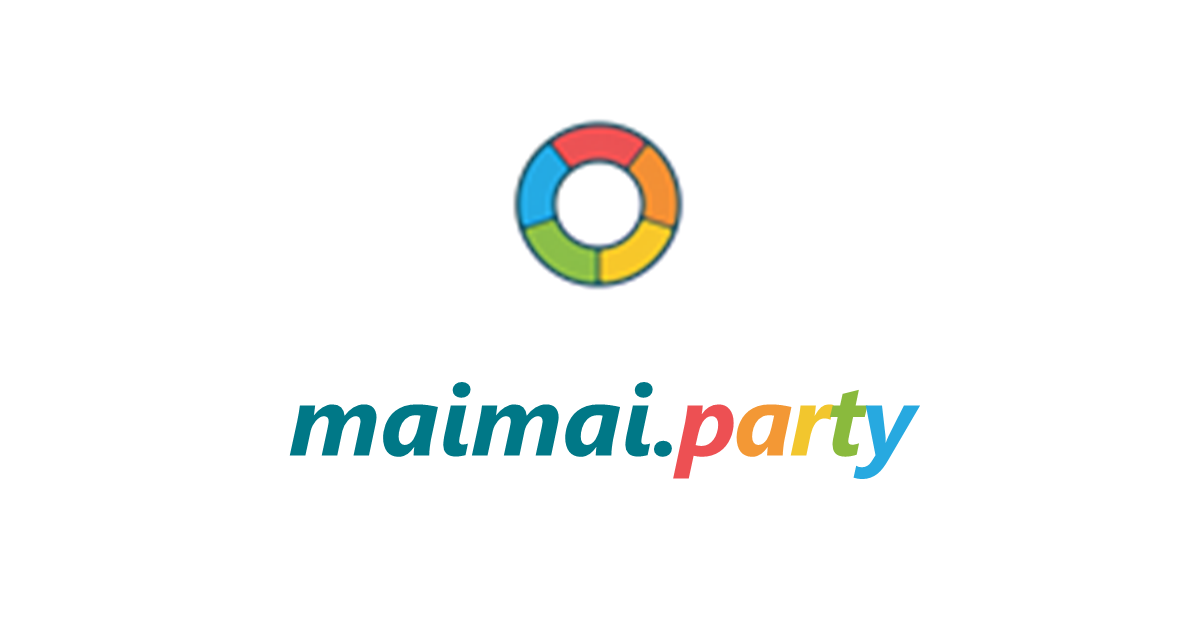
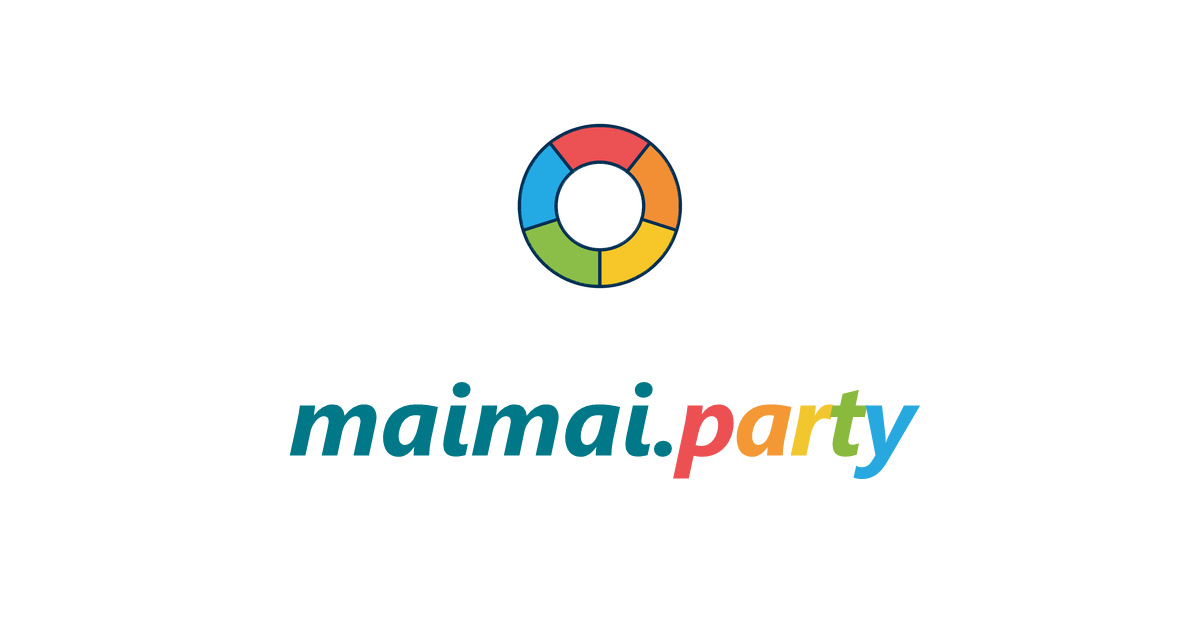
Render the link-preview image's ring from a vector
The Party ring in og-image.png was the 48 px favicon enlarged, so it was
blurry at preview size. No larger original exists. The ring is now drawn
from party-ring.svg, a vector redrawn from the 48 px icon's measured
colours, segment angles, radii and outline (mean difference 3.6 of 255 per
channel at 48 px). The wordmark and layout are unchanged, and the favicon
files are untouched.

Implemented by Codex; reviewed by Claude.

Changed region(s): [[0.4008, 0.181, 0.5858, 0.4825]]

diff --git a/docs/STATIC_SITE_METADATA.md b/docs/STATIC_SITE_METADATA.md
@@ -5,14 +5,37 @@ The public planner publishes the Party-ring `favicon.ico` and one shared
 PNG payloads already in `assets/favicon.html`; Maishift's icon is unrelated.
 Inline PNG icons remain in the self-contained offline exports.
 
-The 1200 by 630 preview PNG was drawn locally with Windows System.Drawing: white
-background, the existing 48 pixel Party ring scaled to 192 pixels, and the
-`site-brand.html` wordmark in its existing Segoe UI system-font fallback, bold
-italic, using the exact colors from `site-brand.css`. No font file, image or
-artwork was downloaded. Only the PNG is a packaged preview asset. Its small
-generation script and Adam's review copy are in
-`C:\DevCache\projects\maimai-chart-browser-registry\audit-source-fixes-20261122`
-(`generate-brand-assets.ps1`, `og-image.png`).
+The 1200 by 630 preview PNG uses the measured vector `assets/party-ring.svg`,
+rendered locally with Pillow at eight times the target resolution and downsampled
+with Lanczos. The ring retains its original 192 by 192 canvas at (504, 110).
+Every pixel outside that canvas, including the original System.Drawing wordmark
+and white background, is preserved from the prior PNG. The wordmark uses the
+site's existing Segoe UI system-font fallback and `site-brand.css` colours; no
+font file, image or artwork was downloaded. The SVG is included by the existing
+package rules without configuration changes; public metadata still uses the PNG.
+
+The vector was fitted against the embedded **48 px** PNG, on white: centre
+(23.97, 24.00), outer/inner arc radii 20.12/10.95 px and 0.85 px outline/gaps in
+measured dark `#003054`. Clockwise boundaries, in degrees from the right with
+positive angles downward, are -128.40, -51.54, 17.56, 90.02 and 162.46.
+Median interior colours, clockwise from the top, are red `#ec5153`, orange
+`#f28f34`, yellow `#f7c729`, green `#8bbe48` and blue `#23aae4`.
+The 48 px comparison has mean absolute RGB error 3.58/255 (RMSE 8.39/255).
+Clean circular edges and flat fills replace the source PNG's faint edge
+highlights and pixel-level colour variation. The centre is explicitly white;
+the original centre is transparent and appears white on this background.
+The 16/32/48 PNG icons and ICO remain unchanged.
+
+Generation scripts, measurements and review copies are retained in
+`C:\DevCache\projects\maimai-chart-browser-registry\og-image-20261122`:
+`fit-ring.py` measures/fits the PNG, `write-vector.py` records that geometry as
+SVG, and `generate-og-image.py` renders the SVG's circular paths and replaces
+only the ring canvas in retained `og-image-original.png`. Run with the Python
+environment selected by `tools/Use-DevelopmentEnvironment.ps1` (Pillow 13).
+Outputs include `og-image.png` (35,287 bytes), `ring-compare.png` (old left,
+new right at the preview size), `ring-compare-48.png`, and `validation.json`
+with dimensions, hashes and the pixel-preservation check. No build, deployment
+or favicon regeneration is part of this image-generation script.
 
 Home metadata replacement removes managed tags only within the head and is
 idempotent. The old implementation unconditionally appended tags; feeding a
